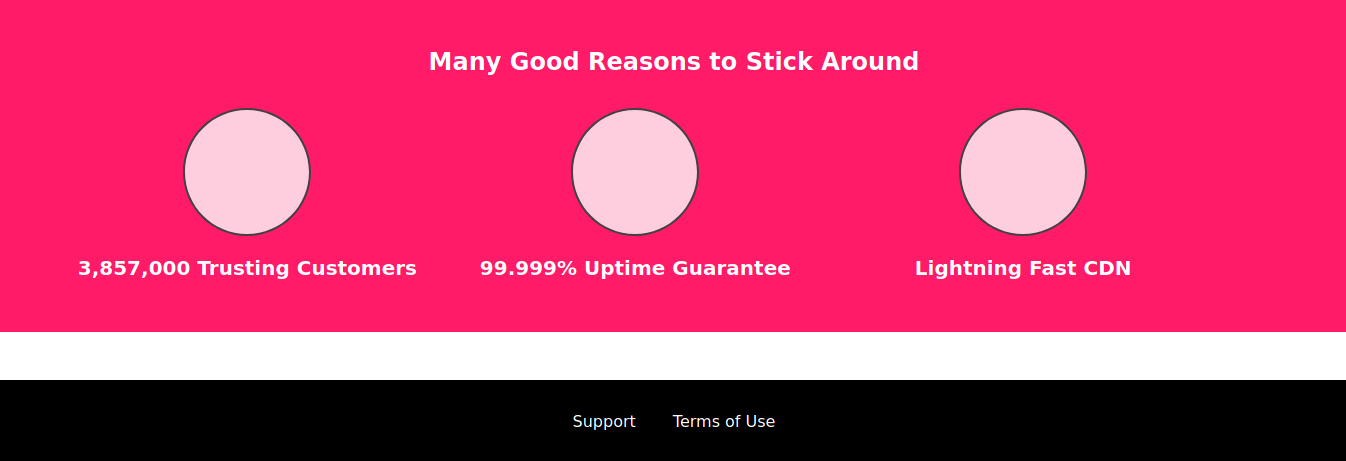
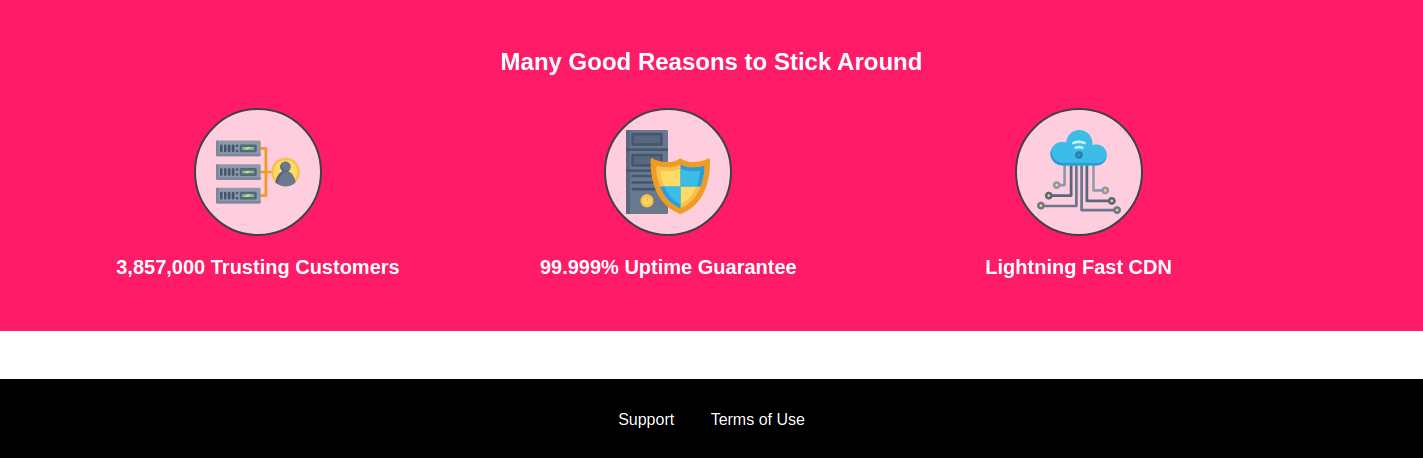
Adding SVG images to the main page

diff --git a/index.html b/index.html
@@ -119,7 +119,95 @@
 
         <li>
           <div class="key-feature__img">
+            <svg viewBox="0 0 512 512">
+                <path style="fill:#F09B24;" d="M344,248h-32V112c0-4.418-3.582-8-8-8h-40c-4.418,0-8,3.582-8,8s3.582,8,8,8h32v128h-32  c-4.418,0-8,3.582-8,8s3.582,8,8,8h32v128h-32c-4.418,0-8,3.582-8,8s3.582,8,8,8h40c4.418,0,8-3.582,8-8V264h32c4.418,0,8-3.582,8-8  S348.418,248,344,248z"
+                />
+                <path style="fill:#8E9AA9;" d="M264,64H8c-4.418,0-8,3.582-8,8v80c0,4.418,3.582,8,8,8h256c4.418,0,8-3.582,8-8V72  C272,67.582,268.418,64,264,64z"
+                />
+                <path style="fill:#7C899B;" d="M24,144c-4.418,0-8-3.582-8-8V64H8c-4.418,0-8,3.582-8,8v80c0,4.418,3.582,8,8,8h256  c4.418,0,8-3.582,8-8v-8H24z"
+                />
+                <rect x="152" y="96" style="fill:#B8E3A8;" width="88" height="32" />
+                <g>
+                    <polygon style="fill:#7EC97D;" points="152,96 152,128 166,128 198,96  " />
+                    <polygon style="fill:#7EC97D;" points="220,96 188,128 240,128 240,96  " />
+                </g>
+                <path style="fill:#56677E;" d="M240,136h-88c-4.418,0-8-3.582-8-8V96c0-4.418,3.582-8,8-8h88c4.418,0,8,3.582,8,8v32  C248,132.418,244.418,136,240,136z M160,120h72v-16h-72V120z"
+                />
+                <g>
+                    <path style="fill:#435670;" d="M32,136c-4.418,0-8-3.582-8-8V96c0-4.418,3.582-8,8-8s8,3.582,8,8v32C40,132.418,36.418,136,32,136z   "
+                    />
+                    <path style="fill:#435670;" d="M56,136c-4.418,0-8-3.582-8-8V96c0-4.418,3.582-8,8-8s8,3.582,8,8v32C64,132.418,60.418,136,56,136z   "
+                    />
+                    <path style="fill:#435670;" d="M80,136c-4.418,0-8-3.582-8-8V96c0-4.418,3.582-8,8-8s8,3.582,8,8v32C88,132.418,84.418,136,80,136z   "
+                    />
+                    <path style="fill:#435670;" d="M104,136c-4.418,0-8-3.582-8-8V96c0-4.418,3.582-8,8-8s8,3.582,8,8v32   C112,132.418,108.418,136,104,136z"
+                    />
+                    <path style="fill:#435670;" d="M128,105c-4.418,0-8-3.582-8-8v-1c0-4.418,3.582-8,8-8s8,3.582,8,8v1   C136,101.418,132.418,105,128,105z"
+                    />
+                    <path style="fill:#435670;" d="M128,136c-4.418,0-8-3.582-8-8v-1c0-4.418,3.582-8,8-8s8,3.582,8,8v1   C136,132.418,132.418,136,128,136z"
+                    />
+                </g>
+                <path style="fill:#8E9AA9;" d="M264,208H8c-4.418,0-8,3.582-8,8v80c0,4.418,3.582,8,8,8h256c4.418,0,8-3.582,8-8v-80  C272,211.582,268.418,208,264,208z"
+                />
+                <path style="fill:#7C899B;" d="M24,288c-4.418,0-8-3.582-8-8v-72H8c-4.418,0-8,3.582-8,8v80c0,4.418,3.582,8,8,8h256  c4.418,0,8-3.582,8-8v-8H24z"
+                />
+                <rect x="152" y="240" style="fill:#B8E3A8;" width="88" height="32" />
+                <g>
+                    <polygon style="fill:#7EC97D;" points="152,240 152,272 166,272 198,240  " />
+                    <polygon style="fill:#7EC97D;" points="220,240 188,272 240,272 240,240  " />
+                </g>
+                <path style="fill:#56677E;" d="M240,280h-88c-4.418,0-8-3.582-8-8v-32c0-4.418,3.582-8,8-8h88c4.418,0,8,3.582,8,8v32  C248,276.418,244.418,280,240,280z M160,264h72v-16h-72V264z"
+                />
+                <g>
+                    <path style="fill:#435670;" d="M32,280c-4.418,0-8-3.582-8-8v-32c0-4.418,3.582-8,8-8s8,3.582,8,8v32C40,276.418,36.418,280,32,280   z"
+                    />
+                    <path style="fill:#435670;" d="M56,280c-4.418,0-8-3.582-8-8v-32c0-4.418,3.582-8,8-8s8,3.582,8,8v32C64,276.418,60.418,280,56,280   z"
+                    />
+                    <path style="fill:#435670;" d="M80,280c-4.418,0-8-3.582-8-8v-32c0-4.418,3.582-8,8-8s8,3.582,8,8v32C88,276.418,84.418,280,80,280   z"
+                    />
+                    <path style="fill:#435670;" d="M104,280c-4.418,0-8-3.582-8-8v-32c0-4.418,3.582-8,8-8s8,3.582,8,8v32   C112,276.418,108.418,280,104,280z"
+                    />
+                    <path style="fill:#435670;" d="M128,249c-4.418,0-8-3.582-8-8v-1c0-4.418,3.582-8,8-8s8,3.582,8,8v1   C136,245.418,132.418,249,128,249z"
+                    />
+                    <path style="fill:#435670;" d="M128,280c-4.418,0-8-3.582-8-8v-1c0-4.418,3.582-8,8-8s8,3.582,8,8v1   C136,276.418,132.418,280,128,280z"
+                    />
+                </g>
+                <path style="fill:#8E9AA9;" d="M264,352H8c-4.418,0-8,3.582-8,8v80c0,4.418,3.582,8,8,8h256c4.418,0,8-3.582,8-8v-80  C272,355.582,268.418,352,264,352z"
+                />
+                <path style="fill:#7C899B;" d="M24,432c-4.418,0-8-3.582-8-8v-72H8c-4.418,0-8,3.582-8,8v80c0,4.418,3.582,8,8,8h256  c4.418,0,8-3.582,8-8v-8H24z"
+                />
+                <rect x="152" y="384" style="fill:#B8E3A8;" width="88" height="32" />
+                <g>
+                    <polygon style="fill:#7EC97D;" points="152,384 152,416 166,416 198,384  " />
+                    <polygon style="fill:#7EC97D;" points="220,384 188,416 240,416 240,384  " />
+                </g>
+                <path style="fill:#56677E;" d="M240,424h-88c-4.418,0-8-3.582-8-8v-32c0-4.418,3.582-8,8-8h88c4.418,0,8,3.582,8,8v32  C248,420.418,244.418,424,240,424z M160,408h72v-16h-72V408z"
+                />
+                <g>
+                    <path style="fill:#435670;" d="M32,424c-4.418,0-8-3.582-8-8v-32c0-4.418,3.582-8,8-8s8,3.582,8,8v32C40,420.418,36.418,424,32,424   z"
+                    />
+                    <path style="fill:#435670;" d="M56,424c-4.418,0-8-3.582-8-8v-32c0-4.418,3.582-8,8-8s8,3.582,8,8v32C64,420.418,60.418,424,56,424   z"
+                    />
+                    <path style="fill:#435670;" d="M80,424c-4.418,0-8-3.582-8-8v-32c0-4.418,3.582-8,8-8s8,3.582,8,8v32C88,420.418,84.418,424,80,424   z"
+                    />
+                    <path style="fill:#435670;" d="M104,424c-4.418,0-8-3.582-8-8v-32c0-4.418,3.582-8,8-8s8,3.582,8,8v32   C112,420.418,108.418,424,104,424z"
+                    />
+                    <path style="fill:#435670;" d="M128,393c-4.418,0-8-3.582-8-8v-1c0-4.418,3.582-8,8-8s8,3.582,8,8v1   C136,389.418,132.418,393,128,393z"
+                    />
+                    <path style="fill:#435670;" d="M128,424c-4.418,0-8-3.582-8-8v-1c0-4.418,3.582-8,8-8s8,3.582,8,8v1   C136,420.418,132.418,424,128,424z"
+                    />
+                </g>
+                <path style="fill:#F7C14D;" d="M424,168c-48.523,0-88,39.477-88,88s39.477,88,88,88s88-39.477,88-88S472.523,168,424,168z" />
+                <path style="fill:#FFDB66;" d="M424,184c-39.701,0-72,32.299-72,72s32.299,72,72,72s72-32.299,72-72S463.701,184,424,184z" />
+                <path style="fill:#69788D;" d="M484.893,314.16C476.393,274.588,451.922,248,424,248s-52.393,26.588-60.893,66.16  c-0.605,2.82,0.354,5.749,2.511,7.664C381.731,336.124,402.465,344,424,344s42.269-7.876,58.381-22.176  C484.539,319.909,485.498,316.98,484.893,314.16z"
+                />
+                <path style="fill:#56677E;" d="M434.053,249.171C430.768,248.403,427.411,248,424,248c-27.922,0-52.393,26.588-60.893,66.16  c-0.605,2.82,0.354,5.749,2.511,7.664c3.383,3.002,6.979,5.703,10.734,8.125C384.904,286.243,407.373,255.378,434.053,249.171z"
+                />
+                <path style="fill:#69788D;" d="M424,192c-17.645,0-32,14.355-32,32s14.355,32,32,32s32-14.355,32-32S441.645,192,424,192z" />
+                <path style="fill:#56677E;" d="M432,248c-17.645,0-32-14.355-32-32c0-6.783,2.128-13.076,5.742-18.258  C397.444,203.53,392,213.138,392,224c0,17.645,14.355,32,32,32c10.862,0,20.471-5.444,26.258-13.742  C445.076,245.872,438.783,248,432,248z"
+                />
 
+            </svg>
           </div>
           <p>3,857,000 Trusting Customers</p>
         </li>
@@ -128,7 +216,51 @@
 
         <li>
           <div class="key-feature__img">
-
+            <svg viewBox="0 0 512 512">
+                <path style="fill:#69788D;" d="M248,0H8C3.582,0,0,3.582,0,8v496c0,4.418,3.582,8,8,8h240c4.418,0,8-3.582,8-8V8  C256,3.582,252.418,0,248,0z"
+                />
+                <path style="fill:#56677E;" d="M24,504V8c0-4.418,3.582-8,8-8H8C3.582,0,0,3.582,0,8v496c0,4.418,3.582,8,8,8h24  C27.582,512,24,508.418,24,504z"
+                />
+                <g>
+                    <rect x="0" y="112" style="fill:#435670;" width="256" height="16" />
+                    <rect x="0" y="240" style="fill:#435670;" width="256" height="16" />
+                </g>
+                <path style="fill:#F7C14D;" d="M128,392c-22.056,0-40,17.944-40,40s17.944,40,40,40s40-17.944,40-40S150.056,392,128,392z" />
+                <path style="fill:#FFDB66;" d="M128,408c-13.233,0-24,10.767-24,24s10.767,24,24,24s24-10.767,24-24S141.233,408,128,408z" />
+                <path style="fill:#F7C14D;" d="M128,392c-2.739,0-5.414,0.278-8,0.805V424c0,4.418,3.582,8,8,8c4.418,0,8-3.582,8-8v-31.195  C133.414,392.278,130.739,392,128,392z"
+                />
+                <g>
+                    <path style="fill:#435670;" d="M216,288H40c-4.418,0-8-3.582-8-8s3.582-8,8-8h176c4.418,0,8,3.582,8,8S220.418,288,216,288z"
+                    />
+                    <path style="fill:#435670;" d="M216,328H40c-4.418,0-8-3.582-8-8s3.582-8,8-8h176c4.418,0,8,3.582,8,8S220.418,328,216,328z"
+                    />
+                    <path style="fill:#435670;" d="M216,368H40c-4.418,0-8-3.582-8-8s3.582-8,8-8h176c4.418,0,8,3.582,8,8S220.418,368,216,368z"
+                    />
+                    <path style="fill:#435670;" d="M216,16H40c-4.418,0-8,3.582-8,8v64c0,4.418,3.582,8,8,8h176c4.418,0,8-3.582,8-8V24   C224,19.582,220.418,16,216,16z"
+                    />
+                </g>
+                <rect x="48" y="32" style="fill:#56677E;" width="160" height="48" />
+                <path style="fill:#435670;" d="M216,144H40c-4.418,0-8,3.582-8,8v64c0,4.418,3.582,8,8,8h176c4.418,0,8-3.582,8-8v-64  C224,147.582,220.418,144,216,144z"
+                />
+                <rect x="48" y="160" style="fill:#56677E;" width="160" height="48" />
+                <path style="fill:#F09B24;" d="M511.747,180.237c-0.194-6.537-8.107-10.107-13.135-5.894c-5.6,4.693-42.904,21.282-98.514,21.282  c-33.45,0-64.625-20.999-64.929-21.206c-2.9-1.991-6.764-1.85-9.512,0.346c-2.677,2.135-27.201,20.86-63.793,20.86  c-55.607,0-92.914-16.589-98.515-21.282c-5.028-4.211-12.941-0.645-13.135,5.894c-1.634,54.834,4.655,105.941,18.693,151.903  c12.096,39.604,29.759,74.047,52.497,102.373c27.538,34.304,62.743,59.882,104.66,76.045c3.069,1.918,6.757,1.921,9.83,0  c41.917-16.163,77.122-41.741,104.66-76.045c22.738-28.326,40.401-62.77,52.497-102.373  C507.092,286.179,513.381,235.071,511.747,180.237z"
+                />
+                <path style="fill:#F7C14D;" d="M476.21,221.226c-1.953-1.631-4.568-2.235-7.036-1.628c-21.686,5.327-44.926,8.028-69.075,8.028  c-25.926,0-49.633-8.975-64.955-16.504c-2.307-1.134-5.016-1.091-7.284,0.116c-14.059,7.477-36.919,16.388-65.994,16.388  c-24.153,0-47.394-2.701-69.075-8.028c-5.155-1.268-10.221,2.966-9.894,8.261c2.077,33.693,7.668,65.635,16.616,94.935  c22.774,74.565,66.139,126.334,128.888,153.868c2.032,0.891,4.397,0.891,6.43,0c61.777-27.107,104.716-78.876,127.62-153.868  c8.948-29.3,14.539-61.241,16.616-94.935C479.224,225.319,478.163,222.856,476.21,221.226z"
+                />
+                <path style="fill:#FFDB66;" d="M331.609,451.727c-52.604-25.289-89.304-70.987-109.144-135.944  c-6.532-21.39-11.162-44.336-13.82-68.447c17.133,2.852,34.952,4.291,53.22,4.291c29.394,0,53.376-7.793,69.978-15.561  c17.44,7.736,41.656,15.561,68.256,15.561c18.267,0,36.085-1.439,53.219-4.291c-2.659,24.112-7.288,47.06-13.82,68.448  C419.545,381.108,383.27,426.805,331.609,451.727z"
+                />
+                <g>
+                    <path style="fill:#2C9DD4;" d="M479.066,227.858c0.157-2.539-0.903-5.002-2.856-6.633s-4.568-2.235-7.036-1.628   c-21.686,5.327-44.926,8.028-69.075,8.028c-25.926,0-49.633-8.975-64.955-16.504c-1.057-0.52-2.2-0.78-3.345-0.806l-0.072,133.351   h123.601c2.556-6.746,4.933-13.702,7.123-20.874C471.398,293.493,476.989,261.552,479.066,227.858z"
+                    />
+                    <path style="fill:#2C9DD4;" d="M206.658,343.667c24.153,63.42,65.028,108.108,121.743,132.995c1.031,0.452,2.147,0.673,3.263,0.666   l0.063-133.661H206.658z"
+                    />
+                </g>
+                <g>
+                    <path style="fill:#3CBDE8;" d="M439.497,315.783c6.532-21.389,11.161-44.336,13.82-68.448c-17.134,2.852-34.952,4.291-53.219,4.291   c-26.6,0-50.815-7.824-68.256-15.561l-0.116,107.601h97.758C433.179,334.807,436.524,325.518,439.497,315.783z"
+                    />
+                    <path style="fill:#3CBDE8;" d="M232.523,343.667c21.144,50.298,54.363,86.56,99.087,108.06l0.117-108.06H232.523z" />
+                </g>
+            </svg>
           </div>
           <p>99.999% Uptime Guarantee</p>
         </li>
@@ -137,7 +269,40 @@
 
         <li>
           <div class="key-feature__img">
+            <svg viewBox="0 0 512 512">
+                <path style="fill:#8E9AA9;" d="M168,200c-4.418,0-8,3.582-8,8v120h-17.376c-3.302-9.311-12.194-16-22.624-16  c-13.234,0-24,10.767-24,24s10.766,24,24,24c10.429,0,19.321-6.689,22.624-16H168c4.418,0,8-3.582,8-8V208  C176,203.582,172.418,200,168,200z"
+                />
+                <path style="fill:#FFDB66;" d="M120,328c-4.411,0-8,3.589-8,8s3.589,8,8,8s8-3.589,8-8S124.411,328,120,328z" />
+                <path style="fill:#56677E;" d="M208,200c-4.418,0-8,3.582-8,8v184H94.624C91.322,382.689,82.43,376,72,376  c-13.234,0-24,10.767-24,24s10.766,24,24,24c10.429,0,19.321-6.689,22.624-16H208c4.418,0,8-3.582,8-8V208  C216,203.582,212.418,200,208,200z"
+                />
+                <path style="fill:#FFDB66;" d="M72,392c-4.411,0-8,3.589-8,8s3.589,8,8,8s8-3.589,8-8S76.411,392,72,392z" />
+                <path style="fill:#69788D;" d="M240,208c-4.418,0-8,3.582-8,8v239H47.24c-2.671-10.34-12.078-18-23.24-18c-13.234,0-24,10.767-24,24  s10.766,24,24,24c9.666,0,18.009-5.747,21.809-14H240c4.418,0,8-3.582,8-8V216C248,211.582,244.418,208,240,208z"
+                />
+                <path style="fill:#FFDB66;" d="M24,453c-4.411,0-8,3.589-8,8s3.589,8,8,8s8-3.589,8-8S28.411,453,24,453z" />
+                <path style="fill:#69788D;" d="M488,464c-10.429,0-19.321,6.689-22.624,16H280V208c0-4.418-3.582-8-8-8s-8,3.582-8,8v280  c0,4.418,3.582,8,8,8h193.376c3.302,9.311,12.194,16,22.624,16c13.234,0,24-10.767,24-24S501.234,464,488,464z"
+                />
+                <path style="fill:#FFDB66;" d="M488,480c-4.411,0-8,3.589-8,8s3.589,8,8,8s8-3.589,8-8S492.411,480,488,480z" />
+                <path style="fill:#56677E;" d="M456,408c-10.429,0-19.321,6.689-22.624,16H312V208c0-4.418-3.582-8-8-8s-8,3.582-8,8v224  c0,4.418,3.582,8,8,8h129.376c3.302,9.311,12.194,16,22.624,16c13.234,0,24-10.767,24-24S469.234,408,456,408z"
+                />
+                <path style="fill:#FFDB66;" d="M456,424c-4.411,0-8,3.589-8,8s3.589,8,8,8s8-3.589,8-8S460.411,424,456,424z" />
+                <path style="fill:#8E9AA9;" d="M416,344c-10.429,0-19.321,6.689-22.624,16H352V208c0-4.418-3.582-8-8-8s-8,3.582-8,8v160  c0,4.418,3.582,8,8,8h49.376c3.302,9.311,12.194,16,22.624,16c13.234,0,24-10.767,24-24S429.234,344,416,344z"
+                />
+                <path style="fill:#FFDB66;" d="M416,360c-4.411,0-8,3.589-8,8s3.589,8,8,8s8-3.589,8-8S420.411,360,416,360z" />
+                <path style="fill:#3CBDE8;" d="M362,88c-8.741,0-17.231,1.751-25.06,5.085C337.646,88.797,338,84.43,338,80  c0-44.112-35.888-80-80-80c-42.823,0-77.895,33.816-79.909,76.149C170.393,73.415,162.244,72,154,72c-39.701,0-72,32.299-72,72  s32.299,72,72,72h208c35.29,0,64-28.71,64-64S397.29,88,362,88z"
+                />
+                <path style="fill:#2C9DD4;" d="M368,200H160c-39.701,0-72-32.299-72-72c0-5.863,0.721-11.559,2.05-17.019  C84.918,120.88,82,132.102,82,144c0,39.701,32.299,72,72,72h208c30.389,0,55.88-21.296,62.379-49.743  C413.565,186.327,392.352,200,368,200z"
+                />
+                <path style="fill:#2A7DB5;" d="M256,128c-13.234,0-24,10.767-24,24s10.766,24,24,24c13.233,0,24-10.767,24-24S269.233,128,256,128z"
+                />
+                <path style="fill:#2C9DD4;" d="M256,144c-4.411,0-8,3.589-8,8s3.589,8,8,8c4.411,0,8-3.589,8-8S260.411,144,256,144z" />
+                <g>
+                    <path style="fill:#C5F1FA;" d="M221.755,87.695c-2.994,0-5.864-1.688-7.233-4.572c-1.894-3.991-0.194-8.763,3.798-10.657   C230.157,66.849,242.834,64,256,64c13.166,0,25.844,2.849,37.68,8.466c3.992,1.895,5.692,6.666,3.798,10.657   s-6.666,5.692-10.657,3.798C277.144,82.328,266.774,80,256,80c-10.774,0-21.144,2.328-30.821,6.921   C224.072,87.446,222.904,87.695,221.755,87.695z"
+                    />
+                    <path style="fill:#C5F1FA;" d="M276.545,116.618c-1.148,0-2.316-0.249-3.424-0.774C267.745,113.293,261.985,112,256,112   c-5.985,0-11.745,1.293-17.121,3.844c-3.991,1.895-8.763,0.192-10.657-3.798c-1.894-3.992-0.193-8.764,3.798-10.657   C239.557,97.813,247.625,96,256,96c8.376,0,16.444,1.813,23.98,5.389c3.991,1.894,5.692,6.665,3.798,10.657   C282.41,114.93,279.539,116.618,276.545,116.618z"
+                    />
+                </g>
 
+            </svg>
           </div>
           <p>Lightning Fast CDN</p>
         </li>

diff --git a/background-images-07-adding-svgs-code/svg1.html b/background-images-07-adding-svgs-code/svg1.html
@@ -1,0 +1,90 @@
+                        <svg viewBox="0 0 512 512">
+                            <path style="fill:#F09B24;" d="M344,248h-32V112c0-4.418-3.582-8-8-8h-40c-4.418,0-8,3.582-8,8s3.582,8,8,8h32v128h-32  c-4.418,0-8,3.582-8,8s3.582,8,8,8h32v128h-32c-4.418,0-8,3.582-8,8s3.582,8,8,8h40c4.418,0,8-3.582,8-8V264h32c4.418,0,8-3.582,8-8  S348.418,248,344,248z"
+                            />
+                            <path style="fill:#8E9AA9;" d="M264,64H8c-4.418,0-8,3.582-8,8v80c0,4.418,3.582,8,8,8h256c4.418,0,8-3.582,8-8V72  C272,67.582,268.418,64,264,64z"
+                            />
+                            <path style="fill:#7C899B;" d="M24,144c-4.418,0-8-3.582-8-8V64H8c-4.418,0-8,3.582-8,8v80c0,4.418,3.582,8,8,8h256  c4.418,0,8-3.582,8-8v-8H24z"
+                            />
+                            <rect x="152" y="96" style="fill:#B8E3A8;" width="88" height="32" />
+                            <g>
+                                <polygon style="fill:#7EC97D;" points="152,96 152,128 166,128 198,96  " />
+                                <polygon style="fill:#7EC97D;" points="220,96 188,128 240,128 240,96  " />
+                            </g>
+                            <path style="fill:#56677E;" d="M240,136h-88c-4.418,0-8-3.582-8-8V96c0-4.418,3.582-8,8-8h88c4.418,0,8,3.582,8,8v32  C248,132.418,244.418,136,240,136z M160,120h72v-16h-72V120z"
+                            />
+                            <g>
+                                <path style="fill:#435670;" d="M32,136c-4.418,0-8-3.582-8-8V96c0-4.418,3.582-8,8-8s8,3.582,8,8v32C40,132.418,36.418,136,32,136z   "
+                                />
+                                <path style="fill:#435670;" d="M56,136c-4.418,0-8-3.582-8-8V96c0-4.418,3.582-8,8-8s8,3.582,8,8v32C64,132.418,60.418,136,56,136z   "
+                                />
+                                <path style="fill:#435670;" d="M80,136c-4.418,0-8-3.582-8-8V96c0-4.418,3.582-8,8-8s8,3.582,8,8v32C88,132.418,84.418,136,80,136z   "
+                                />
+                                <path style="fill:#435670;" d="M104,136c-4.418,0-8-3.582-8-8V96c0-4.418,3.582-8,8-8s8,3.582,8,8v32   C112,132.418,108.418,136,104,136z"
+                                />
+                                <path style="fill:#435670;" d="M128,105c-4.418,0-8-3.582-8-8v-1c0-4.418,3.582-8,8-8s8,3.582,8,8v1   C136,101.418,132.418,105,128,105z"
+                                />
+                                <path style="fill:#435670;" d="M128,136c-4.418,0-8-3.582-8-8v-1c0-4.418,3.582-8,8-8s8,3.582,8,8v1   C136,132.418,132.418,136,128,136z"
+                                />
+                            </g>
+                            <path style="fill:#8E9AA9;" d="M264,208H8c-4.418,0-8,3.582-8,8v80c0,4.418,3.582,8,8,8h256c4.418,0,8-3.582,8-8v-80  C272,211.582,268.418,208,264,208z"
+                            />
+                            <path style="fill:#7C899B;" d="M24,288c-4.418,0-8-3.582-8-8v-72H8c-4.418,0-8,3.582-8,8v80c0,4.418,3.582,8,8,8h256  c4.418,0,8-3.582,8-8v-8H24z"
+                            />
+                            <rect x="152" y="240" style="fill:#B8E3A8;" width="88" height="32" />
+                            <g>
+                                <polygon style="fill:#7EC97D;" points="152,240 152,272 166,272 198,240  " />
+                                <polygon style="fill:#7EC97D;" points="220,240 188,272 240,272 240,240  " />
+                            </g>
+                            <path style="fill:#56677E;" d="M240,280h-88c-4.418,0-8-3.582-8-8v-32c0-4.418,3.582-8,8-8h88c4.418,0,8,3.582,8,8v32  C248,276.418,244.418,280,240,280z M160,264h72v-16h-72V264z"
+                            />
+                            <g>
+                                <path style="fill:#435670;" d="M32,280c-4.418,0-8-3.582-8-8v-32c0-4.418,3.582-8,8-8s8,3.582,8,8v32C40,276.418,36.418,280,32,280   z"
+                                />
+                                <path style="fill:#435670;" d="M56,280c-4.418,0-8-3.582-8-8v-32c0-4.418,3.582-8,8-8s8,3.582,8,8v32C64,276.418,60.418,280,56,280   z"
+                                />
+                                <path style="fill:#435670;" d="M80,280c-4.418,0-8-3.582-8-8v-32c0-4.418,3.582-8,8-8s8,3.582,8,8v32C88,276.418,84.418,280,80,280   z"
+                                />
+                                <path style="fill:#435670;" d="M104,280c-4.418,0-8-3.582-8-8v-32c0-4.418,3.582-8,8-8s8,3.582,8,8v32   C112,276.418,108.418,280,104,280z"
+                                />
+                                <path style="fill:#435670;" d="M128,249c-4.418,0-8-3.582-8-8v-1c0-4.418,3.582-8,8-8s8,3.582,8,8v1   C136,245.418,132.418,249,128,249z"
+                                />
+                                <path style="fill:#435670;" d="M128,280c-4.418,0-8-3.582-8-8v-1c0-4.418,3.582-8,8-8s8,3.582,8,8v1   C136,276.418,132.418,280,128,280z"
+                                />
+                            </g>
+                            <path style="fill:#8E9AA9;" d="M264,352H8c-4.418,0-8,3.582-8,8v80c0,4.418,3.582,8,8,8h256c4.418,0,8-3.582,8-8v-80  C272,355.582,268.418,352,264,352z"
+                            />
+                            <path style="fill:#7C899B;" d="M24,432c-4.418,0-8-3.582-8-8v-72H8c-4.418,0-8,3.582-8,8v80c0,4.418,3.582,8,8,8h256  c4.418,0,8-3.582,8-8v-8H24z"
+                            />
+                            <rect x="152" y="384" style="fill:#B8E3A8;" width="88" height="32" />
+                            <g>
+                                <polygon style="fill:#7EC97D;" points="152,384 152,416 166,416 198,384  " />
+                                <polygon style="fill:#7EC97D;" points="220,384 188,416 240,416 240,384  " />
+                            </g>
+                            <path style="fill:#56677E;" d="M240,424h-88c-4.418,0-8-3.582-8-8v-32c0-4.418,3.582-8,8-8h88c4.418,0,8,3.582,8,8v32  C248,420.418,244.418,424,240,424z M160,408h72v-16h-72V408z"
+                            />
+                            <g>
+                                <path style="fill:#435670;" d="M32,424c-4.418,0-8-3.582-8-8v-32c0-4.418,3.582-8,8-8s8,3.582,8,8v32C40,420.418,36.418,424,32,424   z"
+                                />
+                                <path style="fill:#435670;" d="M56,424c-4.418,0-8-3.582-8-8v-32c0-4.418,3.582-8,8-8s8,3.582,8,8v32C64,420.418,60.418,424,56,424   z"
+                                />
+                                <path style="fill:#435670;" d="M80,424c-4.418,0-8-3.582-8-8v-32c0-4.418,3.582-8,8-8s8,3.582,8,8v32C88,420.418,84.418,424,80,424   z"
+                                />
+                                <path style="fill:#435670;" d="M104,424c-4.418,0-8-3.582-8-8v-32c0-4.418,3.582-8,8-8s8,3.582,8,8v32   C112,420.418,108.418,424,104,424z"
+                                />
+                                <path style="fill:#435670;" d="M128,393c-4.418,0-8-3.582-8-8v-1c0-4.418,3.582-8,8-8s8,3.582,8,8v1   C136,389.418,132.418,393,128,393z"
+                                />
+                                <path style="fill:#435670;" d="M128,424c-4.418,0-8-3.582-8-8v-1c0-4.418,3.582-8,8-8s8,3.582,8,8v1   C136,420.418,132.418,424,128,424z"
+                                />
+                            </g>
+                            <path style="fill:#F7C14D;" d="M424,168c-48.523,0-88,39.477-88,88s39.477,88,88,88s88-39.477,88-88S472.523,168,424,168z" />
+                            <path style="fill:#FFDB66;" d="M424,184c-39.701,0-72,32.299-72,72s32.299,72,72,72s72-32.299,72-72S463.701,184,424,184z" />
+                            <path style="fill:#69788D;" d="M484.893,314.16C476.393,274.588,451.922,248,424,248s-52.393,26.588-60.893,66.16  c-0.605,2.82,0.354,5.749,2.511,7.664C381.731,336.124,402.465,344,424,344s42.269-7.876,58.381-22.176  C484.539,319.909,485.498,316.98,484.893,314.16z"
+                            />
+                            <path style="fill:#56677E;" d="M434.053,249.171C430.768,248.403,427.411,248,424,248c-27.922,0-52.393,26.588-60.893,66.16  c-0.605,2.82,0.354,5.749,2.511,7.664c3.383,3.002,6.979,5.703,10.734,8.125C384.904,286.243,407.373,255.378,434.053,249.171z"
+                            />
+                            <path style="fill:#69788D;" d="M424,192c-17.645,0-32,14.355-32,32s14.355,32,32,32s32-14.355,32-32S441.645,192,424,192z" />
+                            <path style="fill:#56677E;" d="M432,248c-17.645,0-32-14.355-32-32c0-6.783,2.128-13.076,5.742-18.258  C397.444,203.53,392,213.138,392,224c0,17.645,14.355,32,32,32c10.862,0,20.471-5.444,26.258-13.742  C445.076,245.872,438.783,248,432,248z"
+                            />
+
+                        </svg>
+  

diff --git a/background-images-07-adding-svgs-code/svg2.html b/background-images-07-adding-svgs-code/svg2.html
@@ -1,0 +1,45 @@
+                        <svg viewBox="0 0 512 512">
+                            <path style="fill:#69788D;" d="M248,0H8C3.582,0,0,3.582,0,8v496c0,4.418,3.582,8,8,8h240c4.418,0,8-3.582,8-8V8  C256,3.582,252.418,0,248,0z"
+                            />
+                            <path style="fill:#56677E;" d="M24,504V8c0-4.418,3.582-8,8-8H8C3.582,0,0,3.582,0,8v496c0,4.418,3.582,8,8,8h24  C27.582,512,24,508.418,24,504z"
+                            />
+                            <g>
+                                <rect x="0" y="112" style="fill:#435670;" width="256" height="16" />
+                                <rect x="0" y="240" style="fill:#435670;" width="256" height="16" />
+                            </g>
+                            <path style="fill:#F7C14D;" d="M128,392c-22.056,0-40,17.944-40,40s17.944,40,40,40s40-17.944,40-40S150.056,392,128,392z" />
+                            <path style="fill:#FFDB66;" d="M128,408c-13.233,0-24,10.767-24,24s10.767,24,24,24s24-10.767,24-24S141.233,408,128,408z" />
+                            <path style="fill:#F7C14D;" d="M128,392c-2.739,0-5.414,0.278-8,0.805V424c0,4.418,3.582,8,8,8c4.418,0,8-3.582,8-8v-31.195  C133.414,392.278,130.739,392,128,392z"
+                            />
+                            <g>
+                                <path style="fill:#435670;" d="M216,288H40c-4.418,0-8-3.582-8-8s3.582-8,8-8h176c4.418,0,8,3.582,8,8S220.418,288,216,288z"
+                                />
+                                <path style="fill:#435670;" d="M216,328H40c-4.418,0-8-3.582-8-8s3.582-8,8-8h176c4.418,0,8,3.582,8,8S220.418,328,216,328z"
+                                />
+                                <path style="fill:#435670;" d="M216,368H40c-4.418,0-8-3.582-8-8s3.582-8,8-8h176c4.418,0,8,3.582,8,8S220.418,368,216,368z"
+                                />
+                                <path style="fill:#435670;" d="M216,16H40c-4.418,0-8,3.582-8,8v64c0,4.418,3.582,8,8,8h176c4.418,0,8-3.582,8-8V24   C224,19.582,220.418,16,216,16z"
+                                />
+                            </g>
+                            <rect x="48" y="32" style="fill:#56677E;" width="160" height="48" />
+                            <path style="fill:#435670;" d="M216,144H40c-4.418,0-8,3.582-8,8v64c0,4.418,3.582,8,8,8h176c4.418,0,8-3.582,8-8v-64  C224,147.582,220.418,144,216,144z"
+                            />
+                            <rect x="48" y="160" style="fill:#56677E;" width="160" height="48" />
+                            <path style="fill:#F09B24;" d="M511.747,180.237c-0.194-6.537-8.107-10.107-13.135-5.894c-5.6,4.693-42.904,21.282-98.514,21.282  c-33.45,0-64.625-20.999-64.929-21.206c-2.9-1.991-6.764-1.85-9.512,0.346c-2.677,2.135-27.201,20.86-63.793,20.86  c-55.607,0-92.914-16.589-98.515-21.282c-5.028-4.211-12.941-0.645-13.135,5.894c-1.634,54.834,4.655,105.941,18.693,151.903  c12.096,39.604,29.759,74.047,52.497,102.373c27.538,34.304,62.743,59.882,104.66,76.045c3.069,1.918,6.757,1.921,9.83,0  c41.917-16.163,77.122-41.741,104.66-76.045c22.738-28.326,40.401-62.77,52.497-102.373  C507.092,286.179,513.381,235.071,511.747,180.237z"
+                            />
+                            <path style="fill:#F7C14D;" d="M476.21,221.226c-1.953-1.631-4.568-2.235-7.036-1.628c-21.686,5.327-44.926,8.028-69.075,8.028  c-25.926,0-49.633-8.975-64.955-16.504c-2.307-1.134-5.016-1.091-7.284,0.116c-14.059,7.477-36.919,16.388-65.994,16.388  c-24.153,0-47.394-2.701-69.075-8.028c-5.155-1.268-10.221,2.966-9.894,8.261c2.077,33.693,7.668,65.635,16.616,94.935  c22.774,74.565,66.139,126.334,128.888,153.868c2.032,0.891,4.397,0.891,6.43,0c61.777-27.107,104.716-78.876,127.62-153.868  c8.948-29.3,14.539-61.241,16.616-94.935C479.224,225.319,478.163,222.856,476.21,221.226z"
+                            />
+                            <path style="fill:#FFDB66;" d="M331.609,451.727c-52.604-25.289-89.304-70.987-109.144-135.944  c-6.532-21.39-11.162-44.336-13.82-68.447c17.133,2.852,34.952,4.291,53.22,4.291c29.394,0,53.376-7.793,69.978-15.561  c17.44,7.736,41.656,15.561,68.256,15.561c18.267,0,36.085-1.439,53.219-4.291c-2.659,24.112-7.288,47.06-13.82,68.448  C419.545,381.108,383.27,426.805,331.609,451.727z"
+                            />
+                            <g>
+                                <path style="fill:#2C9DD4;" d="M479.066,227.858c0.157-2.539-0.903-5.002-2.856-6.633s-4.568-2.235-7.036-1.628   c-21.686,5.327-44.926,8.028-69.075,8.028c-25.926,0-49.633-8.975-64.955-16.504c-1.057-0.52-2.2-0.78-3.345-0.806l-0.072,133.351   h123.601c2.556-6.746,4.933-13.702,7.123-20.874C471.398,293.493,476.989,261.552,479.066,227.858z"
+                                />
+                                <path style="fill:#2C9DD4;" d="M206.658,343.667c24.153,63.42,65.028,108.108,121.743,132.995c1.031,0.452,2.147,0.673,3.263,0.666   l0.063-133.661H206.658z"
+                                />
+                            </g>
+                            <g>
+                                <path style="fill:#3CBDE8;" d="M439.497,315.783c6.532-21.389,11.161-44.336,13.82-68.448c-17.134,2.852-34.952,4.291-53.219,4.291   c-26.6,0-50.815-7.824-68.256-15.561l-0.116,107.601h97.758C433.179,334.807,436.524,325.518,439.497,315.783z"
+                                />
+                                <path style="fill:#3CBDE8;" d="M232.523,343.667c21.144,50.298,54.363,86.56,99.087,108.06l0.117-108.06H232.523z" />
+                            </g>
+                        </svg>

diff --git a/background-images-07-adding-svgs-code/svg3.html b/background-images-07-adding-svgs-code/svg3.html
@@ -1,0 +1,34 @@
+                        <svg viewBox="0 0 512 512">
+                            <path style="fill:#8E9AA9;" d="M168,200c-4.418,0-8,3.582-8,8v120h-17.376c-3.302-9.311-12.194-16-22.624-16  c-13.234,0-24,10.767-24,24s10.766,24,24,24c10.429,0,19.321-6.689,22.624-16H168c4.418,0,8-3.582,8-8V208  C176,203.582,172.418,200,168,200z"
+                            />
+                            <path style="fill:#FFDB66;" d="M120,328c-4.411,0-8,3.589-8,8s3.589,8,8,8s8-3.589,8-8S124.411,328,120,328z" />
+                            <path style="fill:#56677E;" d="M208,200c-4.418,0-8,3.582-8,8v184H94.624C91.322,382.689,82.43,376,72,376  c-13.234,0-24,10.767-24,24s10.766,24,24,24c10.429,0,19.321-6.689,22.624-16H208c4.418,0,8-3.582,8-8V208  C216,203.582,212.418,200,208,200z"
+                            />
+                            <path style="fill:#FFDB66;" d="M72,392c-4.411,0-8,3.589-8,8s3.589,8,8,8s8-3.589,8-8S76.411,392,72,392z" />
+                            <path style="fill:#69788D;" d="M240,208c-4.418,0-8,3.582-8,8v239H47.24c-2.671-10.34-12.078-18-23.24-18c-13.234,0-24,10.767-24,24  s10.766,24,24,24c9.666,0,18.009-5.747,21.809-14H240c4.418,0,8-3.582,8-8V216C248,211.582,244.418,208,240,208z"
+                            />
+                            <path style="fill:#FFDB66;" d="M24,453c-4.411,0-8,3.589-8,8s3.589,8,8,8s8-3.589,8-8S28.411,453,24,453z" />
+                            <path style="fill:#69788D;" d="M488,464c-10.429,0-19.321,6.689-22.624,16H280V208c0-4.418-3.582-8-8-8s-8,3.582-8,8v280  c0,4.418,3.582,8,8,8h193.376c3.302,9.311,12.194,16,22.624,16c13.234,0,24-10.767,24-24S501.234,464,488,464z"
+                            />
+                            <path style="fill:#FFDB66;" d="M488,480c-4.411,0-8,3.589-8,8s3.589,8,8,8s8-3.589,8-8S492.411,480,488,480z" />
+                            <path style="fill:#56677E;" d="M456,408c-10.429,0-19.321,6.689-22.624,16H312V208c0-4.418-3.582-8-8-8s-8,3.582-8,8v224  c0,4.418,3.582,8,8,8h129.376c3.302,9.311,12.194,16,22.624,16c13.234,0,24-10.767,24-24S469.234,408,456,408z"
+                            />
+                            <path style="fill:#FFDB66;" d="M456,424c-4.411,0-8,3.589-8,8s3.589,8,8,8s8-3.589,8-8S460.411,424,456,424z" />
+                            <path style="fill:#8E9AA9;" d="M416,344c-10.429,0-19.321,6.689-22.624,16H352V208c0-4.418-3.582-8-8-8s-8,3.582-8,8v160  c0,4.418,3.582,8,8,8h49.376c3.302,9.311,12.194,16,22.624,16c13.234,0,24-10.767,24-24S429.234,344,416,344z"
+                            />
+                            <path style="fill:#FFDB66;" d="M416,360c-4.411,0-8,3.589-8,8s3.589,8,8,8s8-3.589,8-8S420.411,360,416,360z" />
+                            <path style="fill:#3CBDE8;" d="M362,88c-8.741,0-17.231,1.751-25.06,5.085C337.646,88.797,338,84.43,338,80  c0-44.112-35.888-80-80-80c-42.823,0-77.895,33.816-79.909,76.149C170.393,73.415,162.244,72,154,72c-39.701,0-72,32.299-72,72  s32.299,72,72,72h208c35.29,0,64-28.71,64-64S397.29,88,362,88z"
+                            />
+                            <path style="fill:#2C9DD4;" d="M368,200H160c-39.701,0-72-32.299-72-72c0-5.863,0.721-11.559,2.05-17.019  C84.918,120.88,82,132.102,82,144c0,39.701,32.299,72,72,72h208c30.389,0,55.88-21.296,62.379-49.743  C413.565,186.327,392.352,200,368,200z"
+                            />
+                            <path style="fill:#2A7DB5;" d="M256,128c-13.234,0-24,10.767-24,24s10.766,24,24,24c13.233,0,24-10.767,24-24S269.233,128,256,128z"
+                            />
+                            <path style="fill:#2C9DD4;" d="M256,144c-4.411,0-8,3.589-8,8s3.589,8,8,8c4.411,0,8-3.589,8-8S260.411,144,256,144z" />
+                            <g>
+                                <path style="fill:#C5F1FA;" d="M221.755,87.695c-2.994,0-5.864-1.688-7.233-4.572c-1.894-3.991-0.194-8.763,3.798-10.657   C230.157,66.849,242.834,64,256,64c13.166,0,25.844,2.849,37.68,8.466c3.992,1.895,5.692,6.666,3.798,10.657   s-6.666,5.692-10.657,3.798C277.144,82.328,266.774,80,256,80c-10.774,0-21.144,2.328-30.821,6.921   C224.072,87.446,222.904,87.695,221.755,87.695z"
+                                />
+                                <path style="fill:#C5F1FA;" d="M276.545,116.618c-1.148,0-2.316-0.249-3.424-0.774C267.745,113.293,261.985,112,256,112   c-5.985,0-11.745,1.293-17.121,3.844c-3.991,1.895-8.763,0.192-10.657-3.798c-1.894-3.992-0.193-8.764,3.798-10.657   C239.557,97.813,247.625,96,256,96c8.376,0,16.444,1.813,23.98,5.389c3.991,1.894,5.692,6.665,3.798,10.657   C282.41,114.93,279.539,116.618,276.545,116.618z"
+                                />
+                            </g>
+
+                        </svg>

diff --git a/css/main.css b/css/main.css
@@ -99,7 +99,7 @@ body {
 	width: 100%;
 	height: 528px;
 	padding: 10px;
-	margin-top: 43%;
+	margin-top: 3%;
 	position: relative;
 }
 
@@ -223,5 +223,6 @@ section > .section-title {
 	margin: auto;
 	border: 2px solid #424242;
 	border-radius: 50%;
+	padding: 20px;
 }
 
